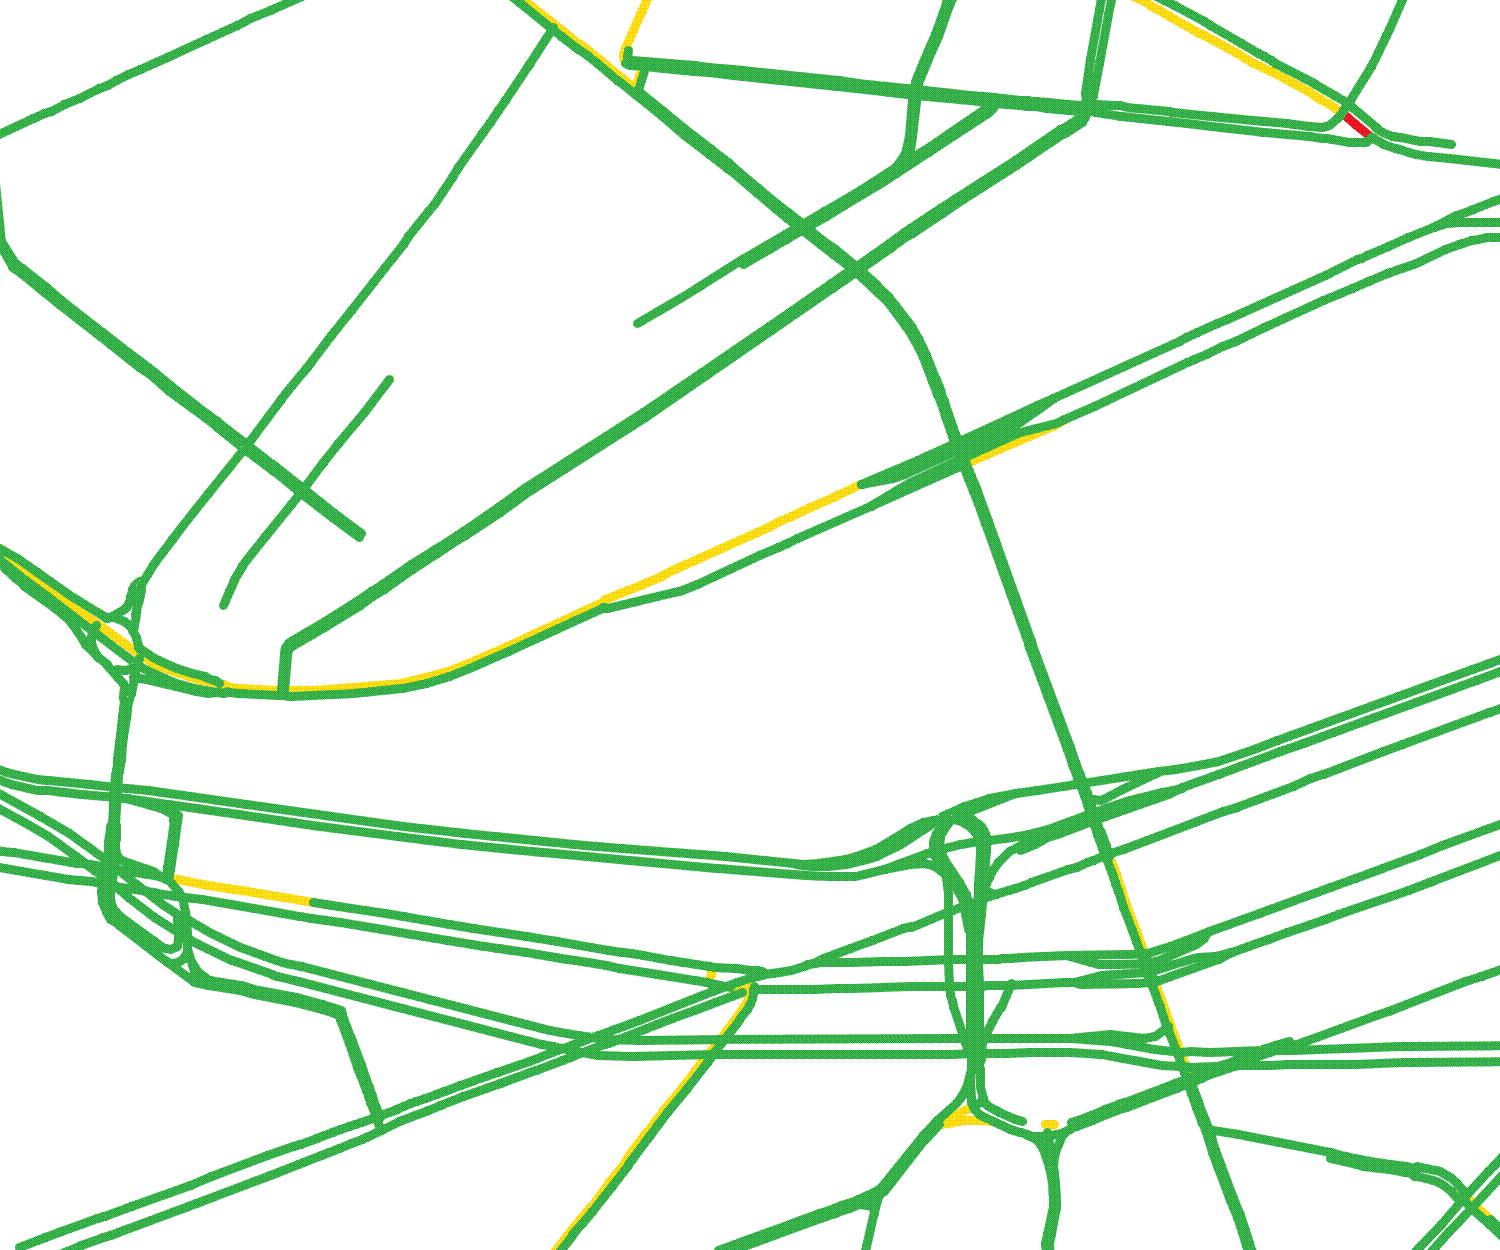
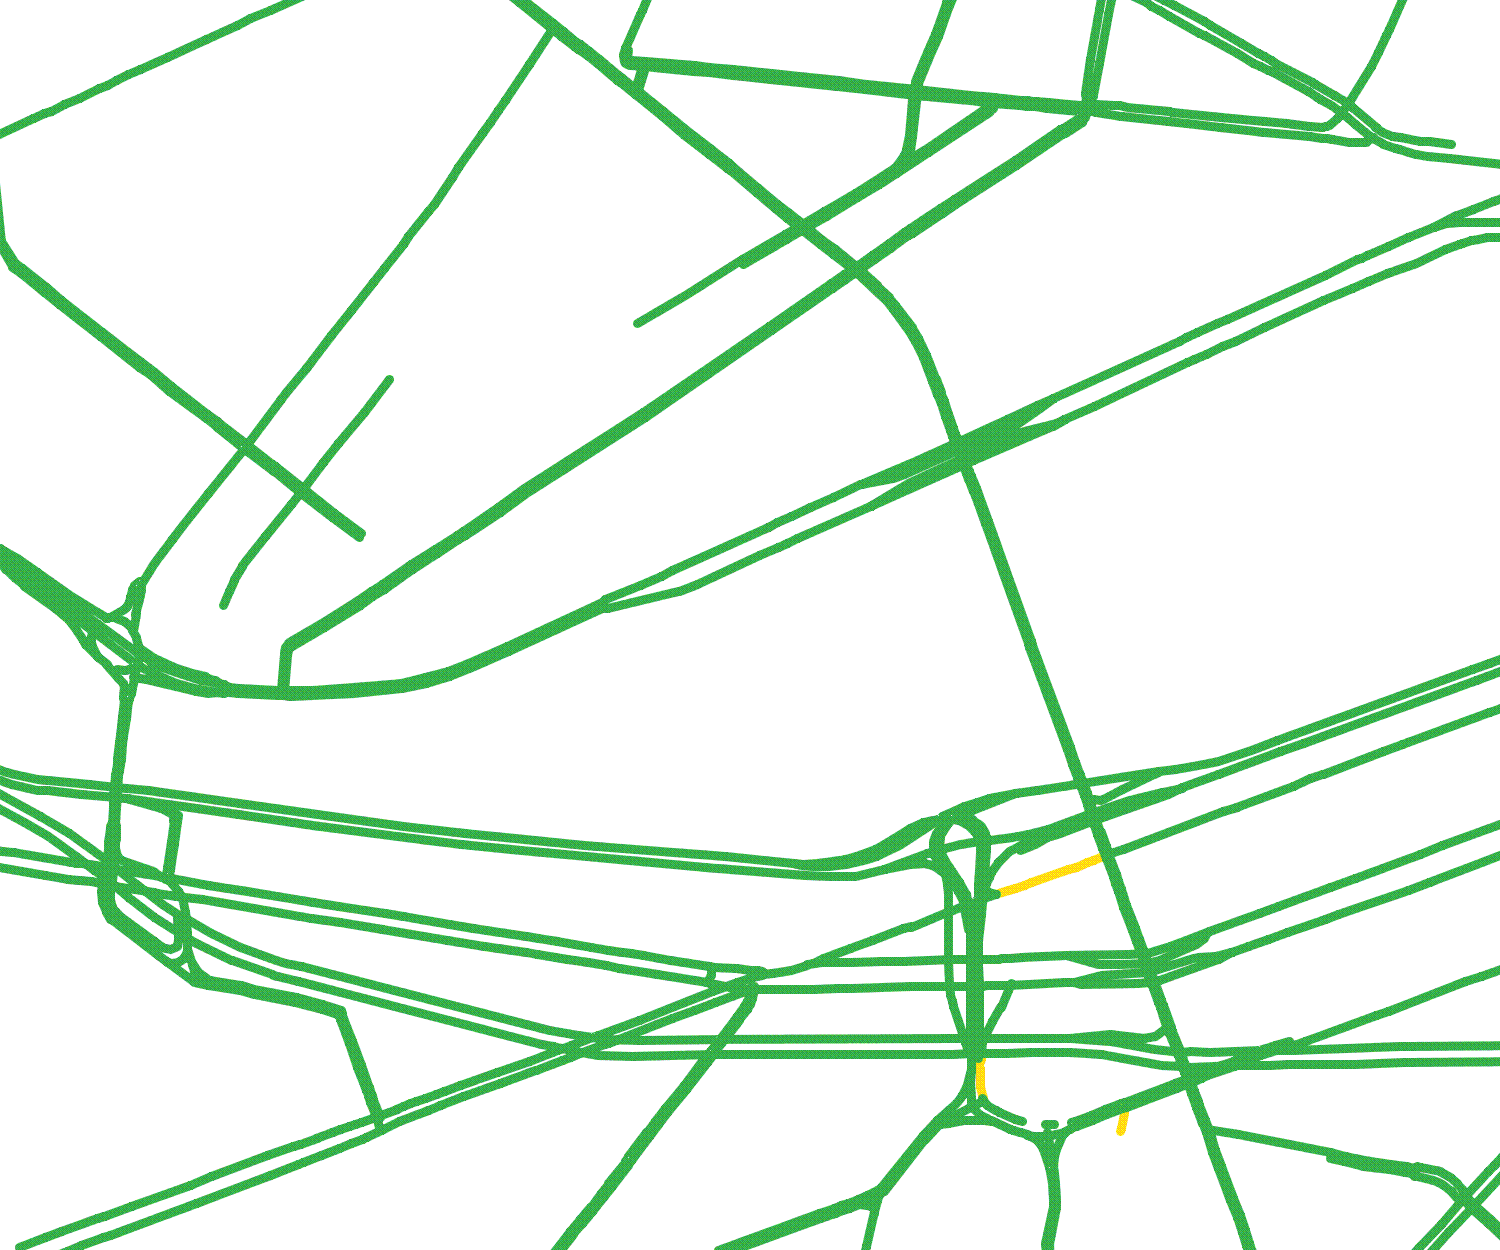
fixed map traffic overlay

diff --git a/traffic.py b/traffic.py
@@ -32,9 +32,18 @@ class Traffic:
         temp_im = self.traffic_image.convert('RGB')
         temp_im = np.array(temp_im)
 
-        # final_image = np.round(map_im - np.where(temp_im==0, 1, 0)+ temp_im)
-        final_image = temp_im // 3 + map_im*2 // 3
-        final_image = Image.fromarray(final_image)
+        im = Image.open("traffic_test.png")
+        image_pixels = np.array(im.convert('RGB'))
+        mask = np.where(image_pixels != [255, 255, 255], [0.3, 0.3, 0.3], [1, 1, 1])
+        mask_2 = np.where(image_pixels == [255, 255, 255], [0, 0, 0], image_pixels * 0.7)
+        # print(mask)
+
+        map_im = Image.open("static-map.png")
+        map_im = np.array(map_im.convert('RGB'))
+
+        mask = mask * map_im + mask_2
+
+        final_image = Image.fromarray(mask.astype('uint8'))
 
         temp_im = final_image.convert('RGB')
         temp_im_pixels = temp_im.load()
@@ -57,7 +66,7 @@ class Traffic:
 
 def main():
     traffic = Traffic()
-    traffic.update()
+    # traffic.update()
     shuttle = Shuttle()
     shuttle_coord = shuttle.coordinates
     traffic.plot_coord(shuttle_coord)
